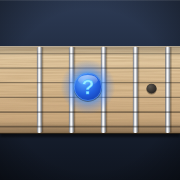
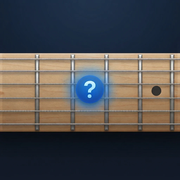
アイコンを新デザイン画像に差し替え（512/192/180px）
Claude-Session: https://claude.ai/code/session_01BJ1eeLw34Q47yN8vYvxYE6

diff --git a/sw.js b/sw.js
@@ -1,6 +1,6 @@
 // オフライン対応用 Service Worker。
 // 更新を配信したいときは CACHE のバージョン番号を上げる。
-const CACHE = 'guitar-trainer-v3';
+const CACHE = 'guitar-trainer-v4';
 const ASSETS = [
   './',
   './index.html',
